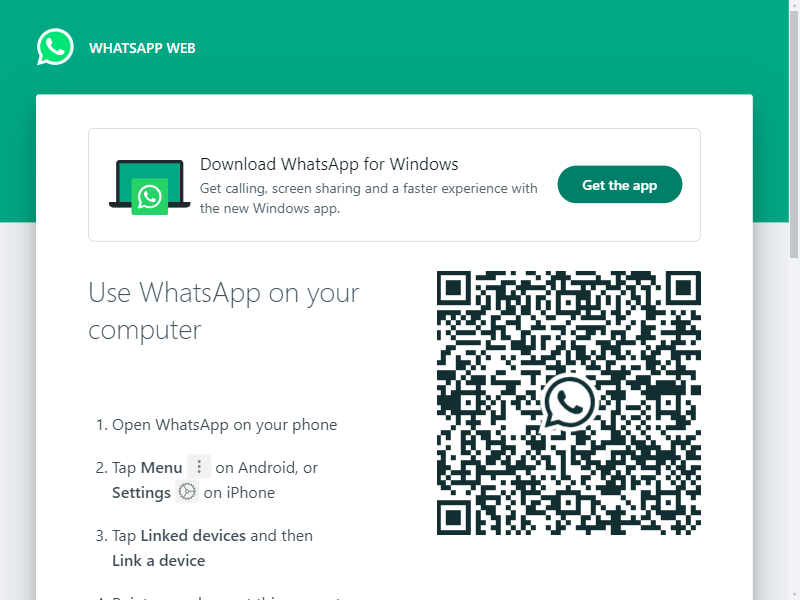
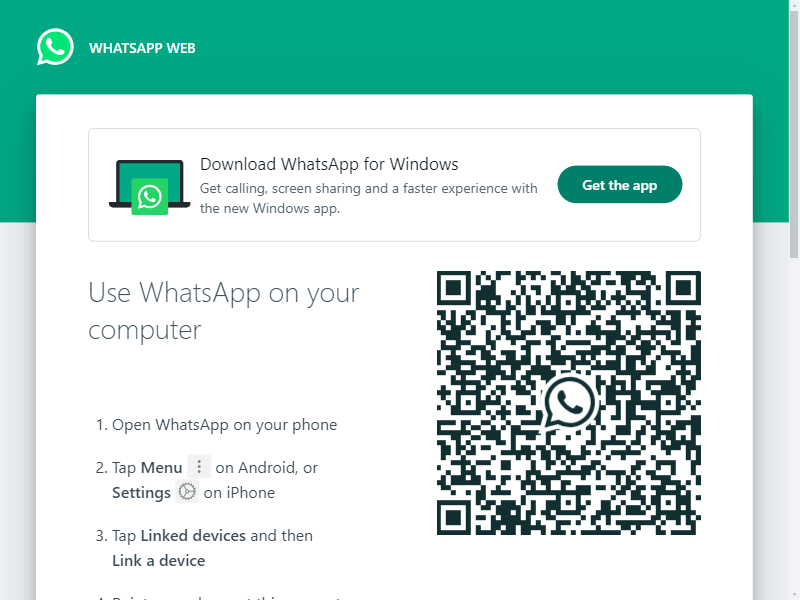
docker added

Changed region(s): [[0.5312, 0.45, 0.875, 0.9]]

diff --git a/index.js b/index.js
@@ -1,69 +1,86 @@
+const express = require("express");
+const fs = require("fs");
 const puppeteer = require("puppeteer");
+const path = require("path");
 
-async function sendWhatsAppMessage(browser) {
-  const page = await browser.newPage();
-  await page.goto("https://web.whatsapp.com");
+const app = express();
 
-  // Wait for user to log in
-  await page.waitForSelector("#side");
-  console.log("Logged into WhatsApp Web");
+// Initialize the browser outside of the route handlers
+let browser;
+let page;
 
-  // Function to send a message
-  async function sendMessage(recipient, message) {
-    try {
-      // Click on the new chat button
-      await page.waitForSelector("._3ndVb");
+(async () => {
+  browser = await puppeteer.launch({ headless: false });
+  page = await browser.newPage();
+})();
 
-      setInterval(async () => {
-        try {
-          await page.click(".iq0m558w");
-        } catch {}
+app.get("/qr-code", async (req, res) => {
+  console.log("called");
+  try {
+    await page.goto("https://web.whatsapp.com");
 
-        await page.click(".iq0m558w");
+    // Wait for QR code to appear
+    await page.waitForSelector(".W3myC");
 
-        // Type recipient's name
-        await page.waitForSelector("._2vDPL");
-        await page.type("._2vDPL", recipient);
-        // await page.waitForTimeout(3000); // Add a delay for the search results to appear
+    await page.screenshot({ path: "./screenshot.png" });
 
-        //   // Click on the chat
-        //   await page.waitForSelector("._8nE1Y");
-        //   await page.click("._8nE1Y");
+    const filePath = path.join(__dirname, "screenshot.png");
 
-        await page.keyboard.press("Enter");
+    // Check if the file exists
+    fs.access(filePath, fs.constants.F_OK, (err) => {
+      if (err) {
+        console.error(err);
+        return res.status(404).send("File not found");
+      }
 
-        await page.waitForSelector("._3Uu1_");
-        await page.type("._3Uu1_", "HEllO Guys");
-
-        await page.keyboard.press("Enter");
-      }, 5000);
-
-      // Type and send message
-      //   await page.waitForSelector('div[data-tab="1"]');
-      //   await page.type('div[data-tab="1"]', message);
-      //   await page.keyboard.press("Enter");
-
-      console.log(`Message sent to ${recipient}: ${message}`);
-
-      page.close();
-      const newp = await browser.newPage();
-      await newp.goto("https://web.whatsapp.com");
-    } catch (error) {
-      console.error(`Error sending message to ${recipient}:`, error);
-    }
+      // Stream the file to the response
+      const stream = fs.createReadStream(filePath);
+      stream.pipe(res);
+    });
+  } catch (error) {
+    console.log(error, "some error occurred");
+    res.status(500).send("Internal Server Error");
   }
+});
+app.get("/close", async (req, res) => {await browser.close(0)})
 
-  // Example usage: sending a message
-  const recipient = "You";
-  const message = "Hello from Puppeteer!";
-  await sendMessage(recipient, message);
+app.get("/sms", async (req, res) => {
 
-  // Close the browser when done
-  // await browser.close();
-}
+let {msg , to} = req.query;
+console.log(to,msg);
+  try {
+    // const page = await browser.newPage();
+    // await page.goto("https://web.whatsapp.com");
 
+    setInterval(async () => {
+      await page.click(".iq0m558w");
 
-var browser = puppeteer.launch({ headless: false }); // Launch browser in non-headless mode for easier debugging
-// Run the function to send a message
-sendWhatsAppMessage();
-// sendWhatsAppMessage();
+      // Type recipient's name
+      await page.waitForSelector("._2vDPL");
+      await page.type("._2vDPL", to);
+      // await page.waitForTimeout(3000); // Add a delay for the search results to appear
+
+      //   // Click on the chat
+      //   await page.waitForSelector("._8nE1Y");
+      //   await page.click("._8nE1Y");
+
+      await page.keyboard.press("Enter");
+
+      await page.waitForSelector("._3Uu1_");
+      await page.type("._3Uu1_", msg);
+
+      await page.keyboard.press("Enter");
+    }, 5000);
+
+    res.send("Done");
+
+    // Handle /hello route logic here
+  } catch (error) {
+    console.log(error, "some error occurred");
+    res.status(500).send("Internal Server Error");
+  }
+});
+
+app.listen(1000, () => {
+  console.log("Server is running on port 1000");
+});

diff --git a/send.js b/send.js
@@ -1,0 +1,69 @@
+const puppeteer = require("puppeteer");
+
+async function sendWhatsAppMessage(browser) {
+  const page = await browser.newPage();
+  await page.goto("https://web.whatsapp.com");
+
+  // Wait for user to log in
+  await page.waitForSelector("#side");
+  console.log("Logged into WhatsApp Web");
+
+  // Function to send a message
+  async function sendMessage(recipient, message) {
+    try {
+      // Click on the new chat button
+      await page.waitForSelector("._3ndVb");
+
+      setInterval(async () => {
+        try {
+          await page.click(".iq0m558w");
+        } catch {}
+
+        await page.click(".iq0m558w");
+
+        // Type recipient's name
+        await page.waitForSelector("._2vDPL");
+        await page.type("._2vDPL", recipient);
+        // await page.waitForTimeout(3000); // Add a delay for the search results to appear
+
+        //   // Click on the chat
+        //   await page.waitForSelector("._8nE1Y");
+        //   await page.click("._8nE1Y");
+
+        await page.keyboard.press("Enter");
+
+        await page.waitForSelector("._3Uu1_");
+        await page.type("._3Uu1_", "HEllO Guys");
+
+        await page.keyboard.press("Enter");
+      }, 5000);
+
+      // Type and send message
+      //   await page.waitForSelector('div[data-tab="1"]');
+      //   await page.type('div[data-tab="1"]', message);
+      //   await page.keyboard.press("Enter");
+
+      console.log(`Message sent to ${recipient}: ${message}`);
+
+      page.close();
+      const newp = await browser.newPage();
+      await newp.goto("https://web.whatsapp.com");
+    } catch (error) {
+      console.error(`Error sending message to ${recipient}:`, error);
+    }
+  }
+
+  // Example usage: sending a message
+  const recipient = "You";
+  const message = "Hello from Puppeteer!";
+  await sendMessage(recipient, message);
+
+  // Close the browser when done
+  // await browser.close();
+}
+
+
+var browser = puppeteer.launch({ headless: false }); // Launch browser in non-headless mode for easier debugging
+// Run the function to send a message
+sendWhatsAppMessage();
+// sendWhatsAppMessage();
